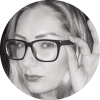
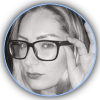
Added Profile Pics
Created in Illustrator as clipped circular masks then exported for upload.

Also radically changed styling for Joanne's profile header, which will be copy/pasted to everyone else's profile section once I'm happy with it.

diff --git a/information/index.html b/information/index.html
@@ -130,23 +130,23 @@
 							<!-- <p align="left" style="font-size: 1.22rem; color: #DDD">While we got our work done (some of us at the last minute, <i>just</i> managing to squeeze in by a hair) for Assignment-02, Assignment-03 and 05 presented us with complications we'd not foreseen: namely our lack of experience actually collaborating together on tasks, which worked fine for the first month of the group's existence though failed us a fair degree in this last few weeks just gone because we would simply take a task each and go off to do it solo.</p> -->
 	          </div>
           <a name="joanne">
-          <div width="100%" style="margin-top: 11px; padding-top: 0px; padding-left: 0px; background-color: rgba(0, 64, 255, 0.2); border-radius: 60px 60px 0px 0px">
-              <div style="border: 1px dotted #CCC; border-radius: 60px 60px 0px 0px; background-color: rgba(89, 154, 245, 0.4);">
+          <div width="100%" style="box-shadow: 0px 0px 99px rgba(190, 230, 255, 0.3); border: 1px dotted rgb(100, 180, 200); margin-top: 66px; padding-top: 0px; padding-left: 0px; background-color: rgba(0, 64, 255, 0.2); border-radius: 60px 60px 0px 0px">
+              <div style="box-shadow: 0px 2px 5px #000; border: 1px dotted #CCC; border-radius: 60px 60px 0px 0px; background-color: rgba(89, 154, 245, 0.4);">
                 <table style="width:100%">
                   <tr>
-                    <td width="7%"><img style="padding-top: 10px; padding-bottom: 10px; padding-left: 20px; padding-right: 11px" src="../images/joanne.png"></td><td width="93%"><h2 style="color: rgba(255, 255, 255, 0.7);" align="left">Joanne</h2><p align="left" style="font-size: 1.22rem; color: rgba(130, 180, 255, 0.9);">Team Coordinator | Research & Development | Media Production</p></td>
+                    <td width="7%"><img style="padding-top: 10px; padding-bottom: 10px; padding-left: 20px; padding-right: 11px" src="../images/joanne.png"></td><td width="93%"><h2 style="text-shadow: 2px 2px 2px #000; color: rgba(255, 255, 255, 0.7);" align="left">Joanne</h2><p align="left" style="text-shadow: 2px 2px 2px #000; font-size: 1.22rem; color: rgba(190, 230, 255, 0.9);">Team Coordinator | Research & Development | Media Production</p></td>
                   </tr>
                 </table>
               </div>
-                  <p align="left" style="font-size: 1.22rem; color: #DDD">She is remarkable.</p>
-                  <p align="left" style="font-size: 1.22rem; color: #DDD">The range of personal qualities this woman has brought to our group astonishes me.</p>
-                  <p align="left" style="font-size: 1.22rem; color: #DDD">From the day of the groups formation Joanne has been artfully adopting whatever role the team has needed at the time; from diplomat, to team leader, to co-worker, to friend and always be organizing <i>us</i> at the same time as she maintained her own very high quality work..</p>
-                  <p align="left" style="font-size: 1.22rem; color: #DDD">The number of times she's stepped in to neutralize minor disputes before they've escalated to keep things peaceful; encouraged members of the team and provided direction during moments when the entire group were drawing blank faces instead of ideas; the way she'd take the initiative in emailing all of us with accouncements, or contact our tutor to clarity questions on our behalf and all this while allowing us all to bask - like lizards on a rock - in the warmth, honestly, intelligence and humour of a personality that kept the group calm organically - just by being present.</p>
-                  <p align="left" style="font-size: 1.22rem; color: #DDD">Brilliant, engaging and dynamic - Joanne is the <b>most</b> valuable member of our group.</p>
-                  <p align="left" style="font-size: 1.22rem; color: #DDD">She currently works in the gift and homewares industry as an account manager but is looking to move into IT because she's always been interested in technology, and where better to begin that move than studying for a degree with RMIT?</p>
-                  <p align="left" style="font-size: 1.22rem; color: #DDD">Joanne studied Fashion Design at Tafe NSW and is naturally a creative person however prefers to use that creativity in cooking and home décor and oh, she loves her cat Daisy <i>despite</i> her skin being <i>perforated</i> from endless bite marks.</p>
-                  <p align="left" style="font-size: 1.22rem; color: #DDD">Her interest in IT is for convenience, social connectivity and entertainment through the likes of Google Maps, Facebook and Netflix. This stems from being introduced to Technology as a child with video games such as Nintendo’s Game Boy, Donkey Kong and later with her first mobile phone in 1999 – a Sony Ericson flip!</p>
-                  <p align="left" style="font-size: 1.22rem; color: #DDD">Studying at RMIT is Joanne’s first step in transitioning into Information Technology and despite possessing limited existing knowledge about the subject, she's looking forward to the journey with her Class Group – Technomalia.</p>
+                  <p align="left" style="padding-left: 33px; padding-right: 33px; font-size: 1.22rem; color: rgba(190, 230, 255, 0.9); text-shadow: 0px 2px 1px #000; ">She is remarkable.</p>
+                  <p align="left" style="padding-left: 33px; padding-right: 33px; font-size: 1.22rem; color: rgba(190, 230, 255, 0.9); text-shadow: 0px 2px 1px #000;">The range of personal qualities this woman has brought to our group astonishes me.</p>
+                  <p align="left" style="padding-left: 33px; padding-right: 33px; font-size: 1.22rem; color: rgba(190, 230, 255, 0.9); text-shadow: 0px 2px 1px #000;">From the day of the groups formation Joanne has been artfully adopting whatever role the team has needed at the time; from diplomat, to team leader, to co-worker, to friend and always be organizing <i>us</i> at the same time as she maintained her own very high quality work..</p>
+                  <p align="left" style="padding-left: 22px; padding-right: 11px; font-size: 1.22rem; color: rgba(190, 230, 255, 0.9); text-shadow: 0px 2px 1px #000;">The number of times she's stepped in to neutralize minor disputes before they've escalated to keep things peaceful; encouraged members of the team and provided direction during moments when the entire group were drawing blank faces instead of ideas; the way she'd take the initiative in emailing all of us with accouncements, or contact our tutor to clarity questions on our behalf and all this while allowing us all to bask - like lizards on a rock - in the warmth, honestly, intelligence and humour of a personality that kept the group calm organically - just by being present.</p>
+                  <p align="left" style="padding-left: 22px; padding-right: 11px; font-size: 1.22rem; color: rgba(190, 230, 255, 0.9); text-shadow: 0px 2px 1px #000;">Brilliant, engaging and dynamic - Joanne is the <b>most</b> valuable member of our group.</p>
+                  <p align="left" style="padding-left: 22px; padding-right: 11px; font-size: 1.22rem; color: rgba(190, 230, 255, 0.9); text-shadow: 0px 2px 1px #000;">She currently works in the gift and homewares industry as an account manager but is looking to move into IT because she's always been interested in technology, and where better to begin that move than studying for a degree with RMIT?</p>
+                  <p align="left" style="padding-left: 22px; padding-right: 11px; font-size: 1.22rem; color: rgba(190, 230, 255, 0.9); text-shadow: 0px 2px 1px #000;">Joanne studied Fashion Design at Tafe NSW and is naturally a creative person however prefers to use that creativity in cooking and home décor and oh, she loves her cat Daisy <i>despite</i> her skin being <i>perforated</i> from endless bite marks.</p>
+                  <p align="left" style="padding-left: 22px; padding-right: 11px; font-size: 1.22rem; color: rgba(190, 230, 255, 0.9); text-shadow: 0px 2px 1px #000;">Her interest in IT is for convenience, social connectivity and entertainment through the likes of Google Maps, Facebook and Netflix. This stems from being introduced to Technology as a child with video games such as Nintendo’s Game Boy, Donkey Kong and later with her first mobile phone in 1999 – a Sony Ericson flip!</p>
+                  <p align="left" style="padding-left: 22px; padding-right: 11px; font-size: 1.22rem; color: rgba(190, 230, 255, 0.9); text-shadow: 0px 2px 1px #000;">Studying at RMIT is Joanne’s first step in transitioning into Information Technology and despite possessing limited existing knowledge about the subject, she's looking forward to the journey with her Class Group – Technomalia.</p>
           </a>
 
            		<h2 style="color: #FFF" align="left">Jason</h2>
